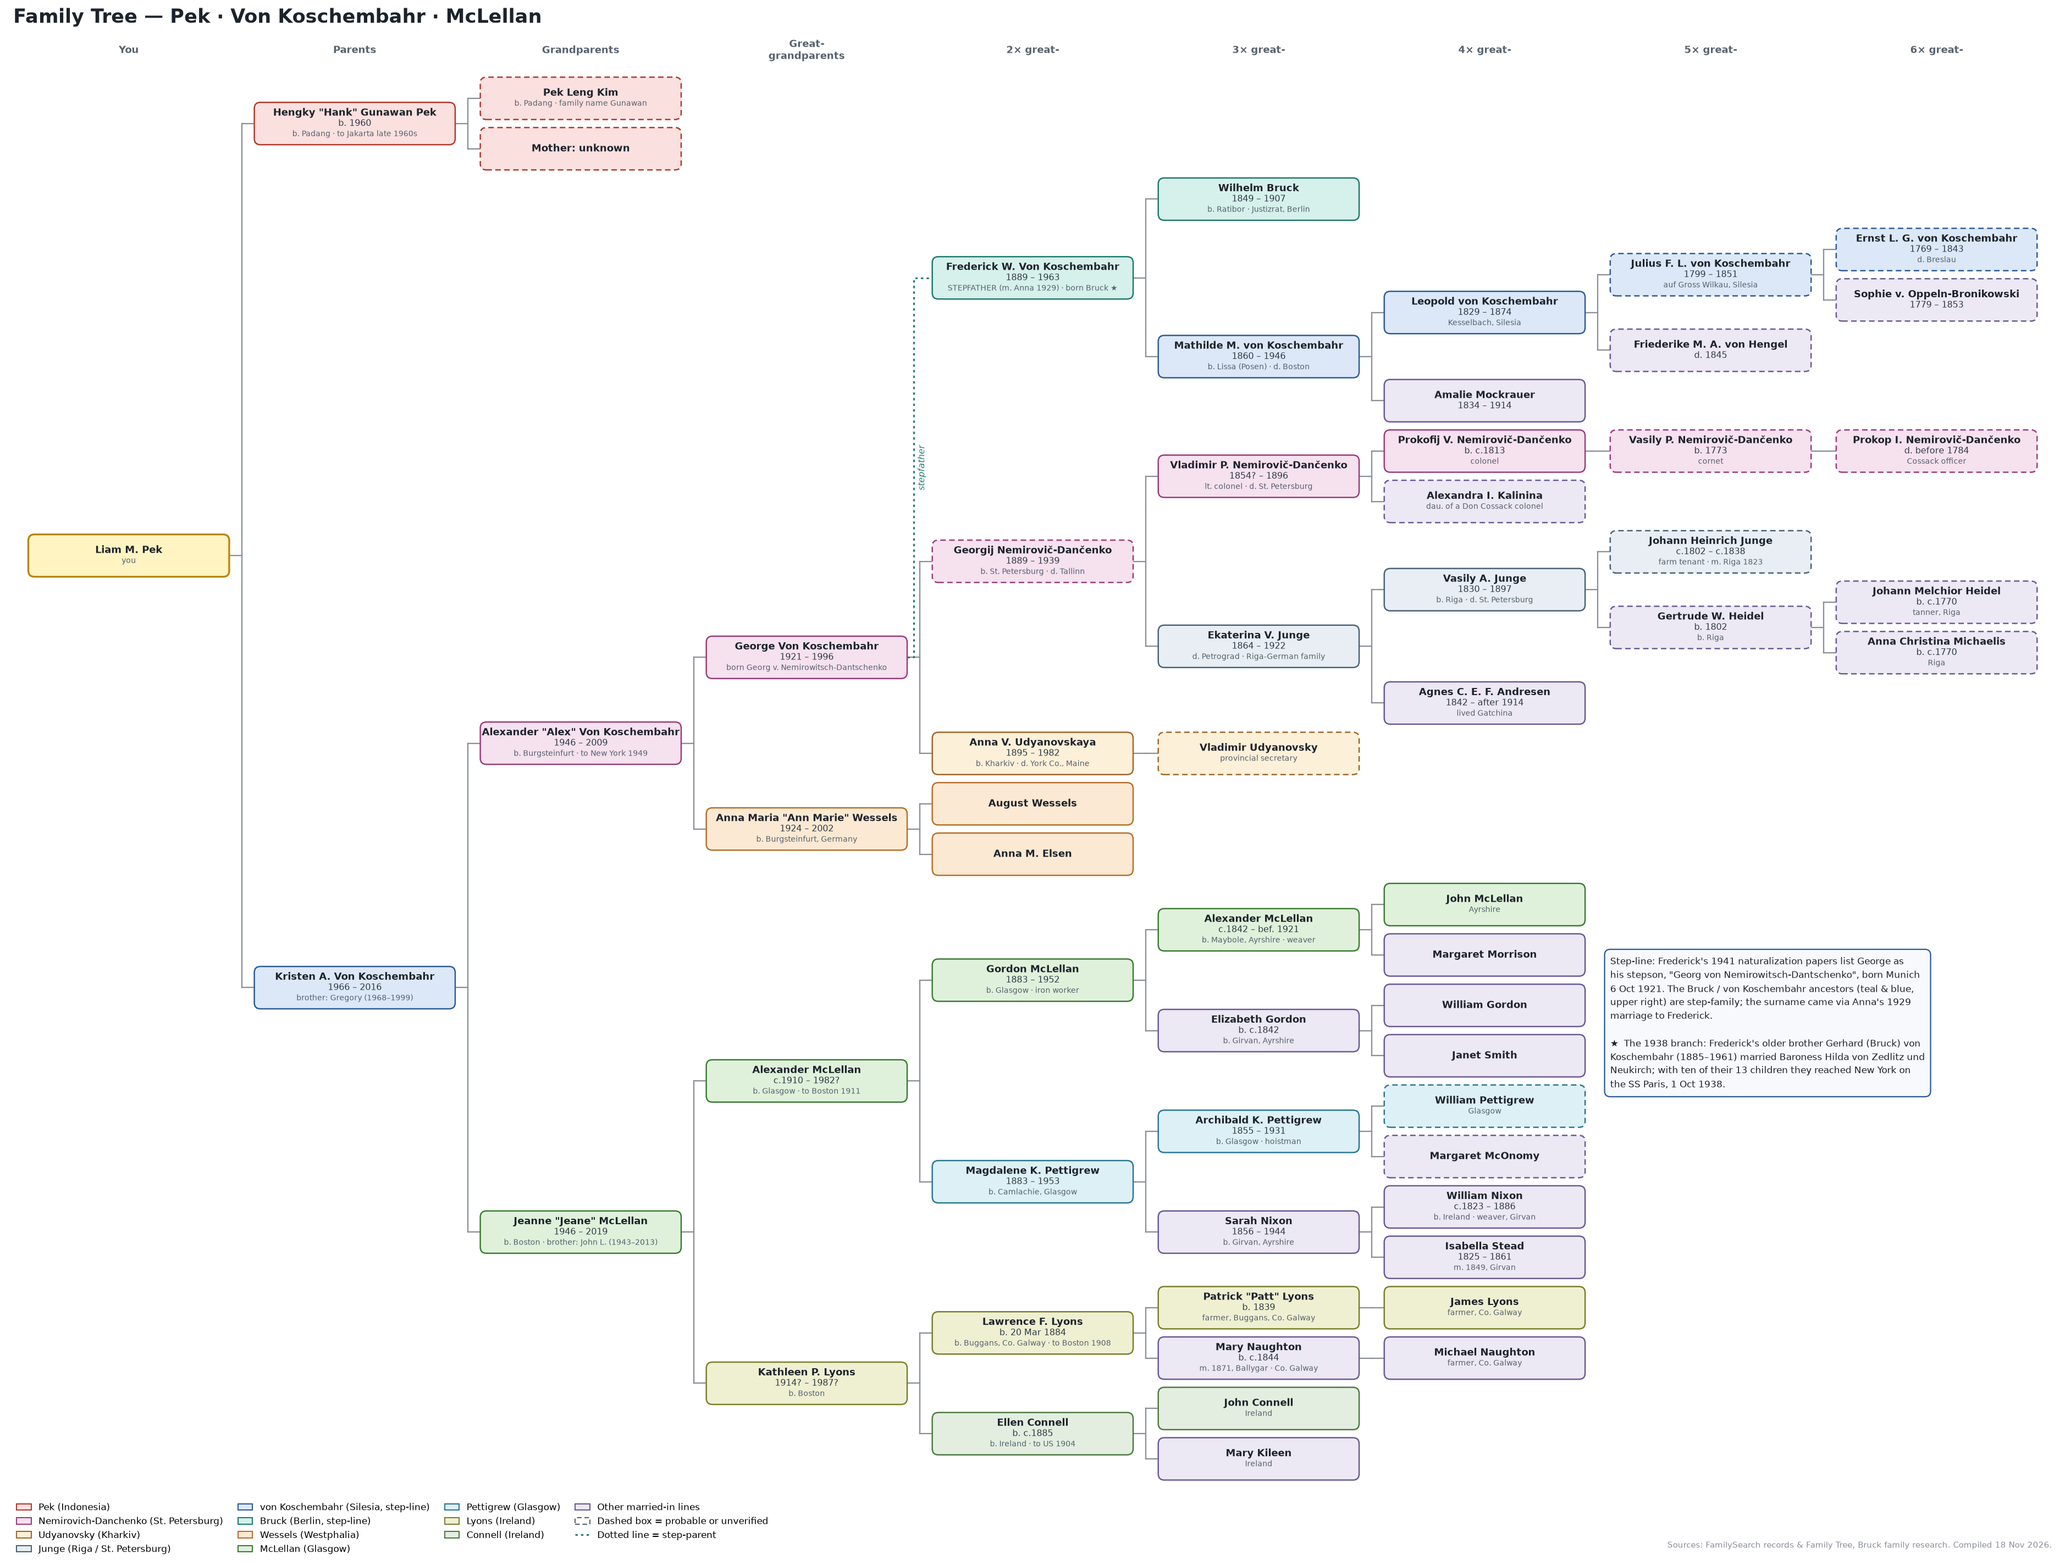
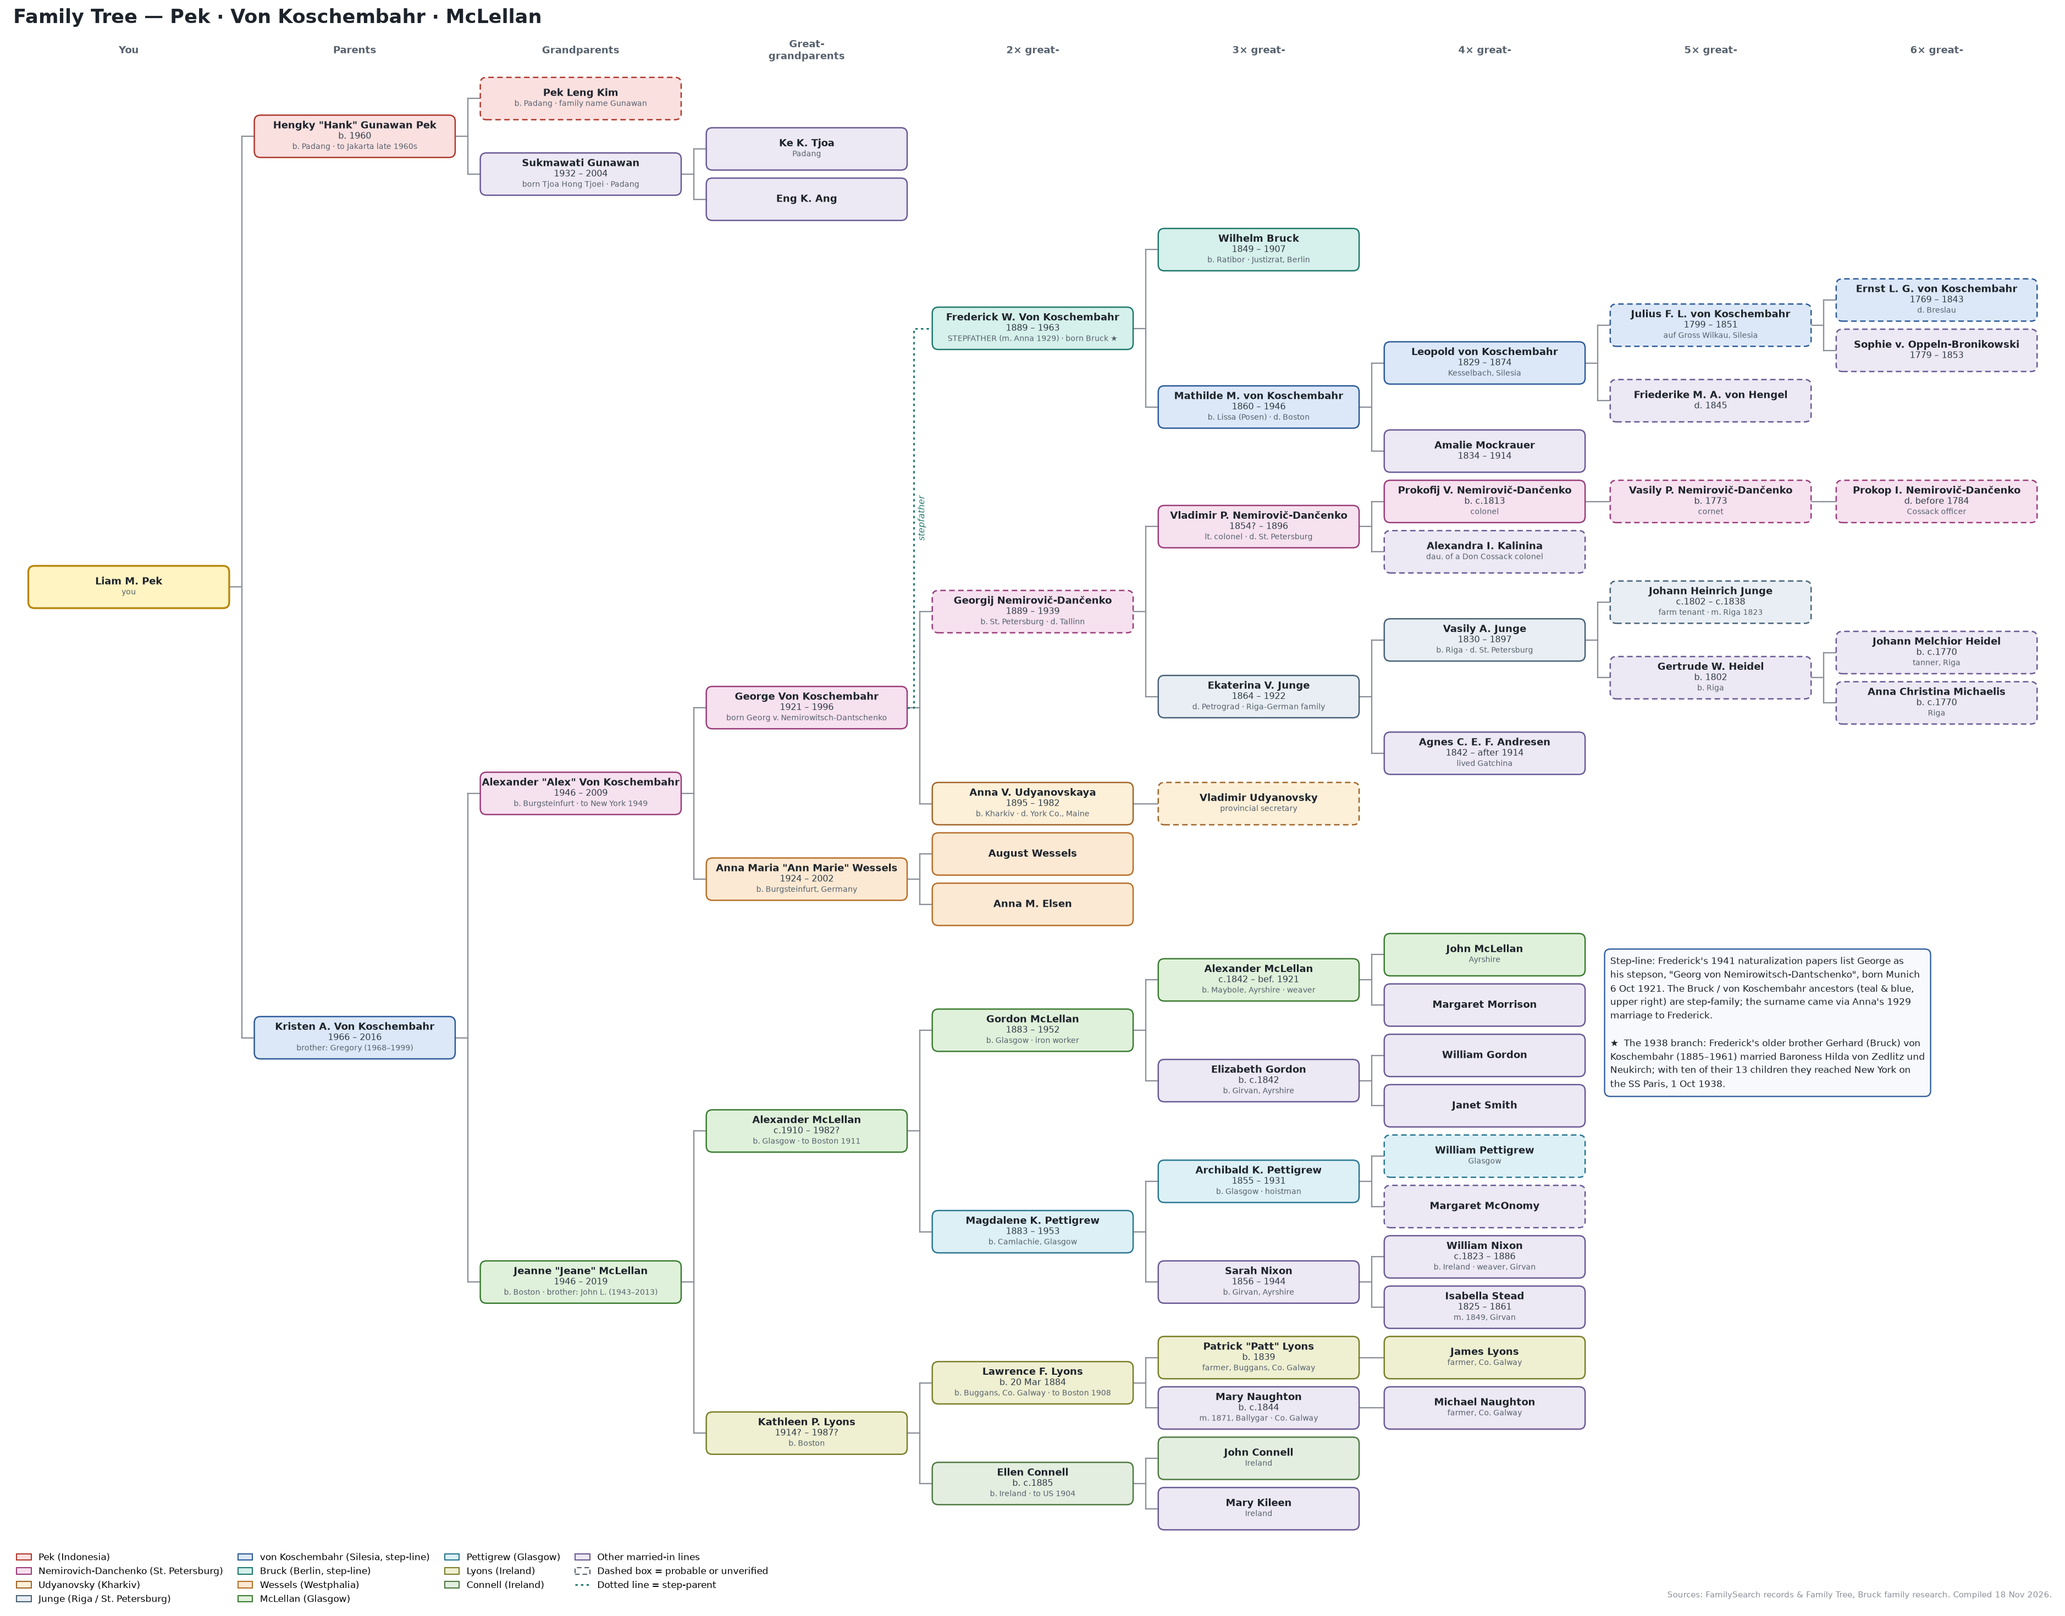
family history: Pek line — add Sukmawati Gunawan (Tjoa Hong Tjoei) and US records
- Dad's mother Sukmawati Gunawan, born Tjoa Hong Tjoei (Padang 1932 –
  Mass. 2004), with parents Ke K. Tjoa and Eng K. Ang from her NUMIDENT
- Iskandar Gunawan (b. 1930, Quincy) noted as possible US name of Pek Leng Kim
- Padang Chinese birth register 1927–1940 (FamilySearch film 1474366) as next lead
- Tree image and Pek Family Archive updated

diff --git a/vault/Research/family-archive/family-archive.html b/vault/Research/family-archive/family-archive.html
@@ -206,11 +206,14 @@ const PLACES = {
 /* status: record | probable | tree | family | living | unknown */
 const P = {
  liam:{n:"Liam M. Pek",line:"root",st:"living",gen:"You",bio:["The person this archive is built around. Liam's father's family is Chinese-Indonesian, from Padang in West Sumatra. His mother's family brings together Russian, Baltic-German, German, Scottish and Irish lines that met in and around Boston."]},
- hengky:{n:"Hengky \"Hank\" Gunawan Pek",line:"pek",st:"living",b:["1960","padang"],res:"Moved to Jakarta in the late 1960s",
+ hengky:{n:"Hengky \"Hank\" Gunawan Pek",alt:"Chinese name Pek Seng Ki",line:"pek",st:"living",b:["6 Mar 1960","padang"],res:"Moved to Jakarta in the late 1960s; later Massachusetts",
    bio:["Born in Padang, West Sumatra, into a Chinese-Indonesian family whose Hokkien surname is Pek (白, Bai in Mandarin). In the 1960s, when Chinese Indonesians were pressed to take Indonesian-sounding names, the family adopted the surname Gunawan. The family moved from Padang to Jakarta in the late 1960s.","He later married Kristen A. Von Koschembahr. Jeanne McLellan Bundtzen's 2019 obituary lists him as her son-in-law, \"Hank Hengky Gunawan Pek\"."]},
  lengkim:{n:"Pek Leng Kim",alt:"Gunawan",line:"pek",st:"family",b:["","padang"],
-   bio:["Hengky's father, known from family memory as Pek Leng Kim. Born in Padang; the family took the Indonesian surname Gunawan and moved to Jakarta in the late 1960s.","No record has been found yet. FamilySearch's indexed Padang civil registers (1912–1945) contain only four Pek entries, none for Leng Kim. His birth year would let the unindexed Padang registers be searched page by page."]},
- pekmom:{n:"Hengky's mother",line:"pek",st:"unknown",bio:["Name not yet known. Her Chinese surname would help identify the family in Padang records."]},
+   bio:["Hengky's father, known from family memory as Pek Leng Kim. Born in Padang; the family took the Indonesian surname Gunawan and moved to Jakarta in the late 1960s.","No record under the name Pek Leng Kim has been found. In the US he may be the Iskandar Gunawan, born 7 Feb 1930, whom public records place in Quincy, Massachusetts, from 2002 to 2009, at the same address as Sukmawati and Hengky Gunawan. No death record for Iskandar was found. This needs confirming with Hengky."]},
+ pekmom:{n:"Sukmawati Gunawan",alt:"born Tjoa Hong Tjoei",line:"other",st:"record",b:["8 Jan 1932","padang"],d:["18 Jul 2004","Norfolk County, Massachusetts"],res:"Quincy, Massachusetts",
+   bio:["Hengky's mother, born Tjoa Hong Tjoei on 8 Jan 1932 in Padang; the family confirms her Chinese name, which also appears in the Social Security claims index. Her Social Security record names her parents as Ke K. Tjoa and Eng K. Ang. Her birth should be in Padang's 1927–1940 Chinese birth register, which FamilySearch holds on restricted film 1474366.","She lived in Quincy, Massachusetts, where public records list her at the same address as Iskandar and Hengky Gunawan, and died in Norfolk County in July 2004. No obituary has been found."]},
+ tjoaF:{n:"Ke K. Tjoa",line:"other",st:"record",b:["","padang"],bio:["Sukmawati's father: named as a parent in her Social Security record, and the source of her family name Tjoa. Padang had a large Tjoa community; his full name should appear on her 1932 birth registration."]},
+ angM:{n:"Eng K. Ang",line:"other",st:"record",bio:["Named as a parent in Sukmawati Gunawan's Social Security record; probably her mother. The Ang family is recorded in Padang, but no link to them is established."]},
  kristen:{n:"Kristen A. Von Koschembahr",line:"kosch",st:"record",b:["7 Dec 1966",null],d:["16 Jul 2016",null],bur:"Saint Joseph Cemetery, West Roxbury, Boston",
    bio:["Liam's mother. Daughter of Alexander \"Alex\" Von Koschembahr and Jeanne McLellan, who married in Massachusetts in 1966 and divorced in 1977. Her younger brother Gregory (1968–1999) died at 31.","Public records place her in Allston, Boston, in 2000. She died in 2016 and is buried at Saint Joseph Cemetery in West Roxbury, alongside her father, brother and mother."]},
  alex:{n:"Alexander \"Alex\" Von Koschembahr",alt:"registered as Dantschenko in 1948",line:"nemir",st:"record",b:["23 Jun 1946","burg"],d:["24 Jun 2009","St Johns County, Florida"],bur:"Saint Joseph Cemetery, West Roxbury",
@@ -294,7 +297,11 @@ const P = {
 };
 
 const D = {
- fam_pek:{t:"Family information",r:"From Liam, November 2026",s:"Hengky's father was Pek Leng Kim; the family took the Indonesian surname Gunawan, came from Padang and moved to Jakarta in the late 1960s."},
+ fam_pek:{t:"Family information",r:"From Liam, November 2026",s:"Hengky's Chinese name is Pek Seng Ki; his mother's was Tjoa Hong Tjoei (Sukmawati Gunawan). His father was Pek Leng Kim; the family took the Indonesian surname Gunawan, came from Padang and moved to Jakarta in the late 1960s."},
+ numident_suk:{t:"Social Security record of Sukmawati Gunawan",r:"US Social Security NUMIDENT",u:FS("6KM3-29Q1"),s:"Born 8 Jan 1932, Padang, Indonesia; died 18 Jul 2004; parents Eng K. Ang and Ke K. Tjoa."},
+ ssdi_suk:{t:"Social Security Death Index, Sukmawati Gunawan",r:"SSDI",u:FS("J5F2-GYH"),s:"Died 18 Jul 2004, Norfolk County, Massachusetts."},
+ pubrec_hengky:{t:"US public records, Hengky Gunawan",r:"US Public Records 1970–2009",u:FS("KL2Y-ZW3"),s:"\"Hemgjy Gunawan\", born 6 Mar 1960, Franklin, Massachusetts, 2008."},
+ pubrec_isk:{t:"US public records, Iskandar Gunawan",r:"US Public Records 1970–2009",u:FS("KL2Y-Z7L"),s:"Born 7 Feb 1930; Quincy, Massachusetts, 2002–2009. Property and people-search sites list Iskandar, Sukmawati and Hengky Gunawan at the same Quincy address."},
  obit_jeanne:{t:"Obituary of Jeanne E. McLellan Bundtzen",r:"US Obituary Records 2014–2023 · 10 Apr 2019",u:FS("61JV-FZJV"),s:"Names her parents Alexander McLellan and Kathleen P. Lyons McLellan, her brother John, her children Kristen A. and Gregory Von Koschembahr, son-in-law Hank Hengky Gunawan Pek and grandson Liam M. Pek."},
  obit_greg:{t:"Obituary of Gregory Vonkoschembahr",r:"GenealogyBank · 14 Apr 1999",u:FS("QKWL-SF61"),s:"Names his parents Alexander Vonkoschembahr and Jeanne McLellan Bundtzen, stepfather John Bundtzen, and sister Kristen."},
  obit_bundtzen:{t:"Obituary of John E. Bundtzen",r:"Worcester Telegram & Gazette · 25 Nov 2003",u:FS("QKWL-QGK7"),s:"Names his wife Jeanne McLellan Bundtzen and her children Gregory and Kristen Vonkoschembahr."},
@@ -373,7 +380,9 @@ const L = [
  ["liam","hengky","bio","record",["obit_jeanne","fam_pek"]],
  ["liam","kristen","bio","record",["obit_jeanne"]],
  ["hengky","lengkim","bio","family",["fam_pek"]],
- ["hengky","pekmom","bio","unknown",[]],
+ ["hengky","pekmom","bio","record",["fam_pek","numident_suk","pubrec_hengky","pubrec_isk"]],
+ ["pekmom","tjoaF","bio","record",["numident_suk"]],
+ ["pekmom","angM","bio","record",["numident_suk"]],
  ["kristen","alex","bio","record",["obit_greg","ct_divorce"]],
  ["kristen","jeanne","bio","record",["obit_jeanne","obit_bundtzen","obit_greg"]],
  ["alex","george","bio","record",["census50_woburn","aro_cover","aro_pciro"]],
@@ -434,7 +443,7 @@ const L = [
 
 /* records about a person's own life (not a parent link) */
 const LIFE = {
- kristen:["fag_stjoseph"], alex:["batory","ssdi_alex","ct_divorce","fag_stjoseph"], george:["numident_george","nat_george","aro_interview","aro_pciro","fag_mtauburn"],
+ kristen:["fag_stjoseph"], pekmom:["numident_suk","ssdi_suk"], lengkim:["pubrec_isk"], hengky:["pubrec_hengky","fam_pek"], alex:["batory","ssdi_alex","ct_divorce","fag_stjoseph"], george:["numident_george","nat_george","aro_interview","aro_pciro","fag_mtauburn"],
  annamaria:["numident_am","nat_am","obit_am","batory","fag_mtauburn"], frederick:["decl_fred","numident_fred","census50_woburn","fag_mtauburn"],
  mathilde:["fag_mtauburn"], ernst:["burial_ernst"], georgij:["osmikon","ruwiki_g","rod_g","vgd"], annaU:["decl_fred","rod_anna","vgd","aro_arr48","me_death","fag_mtauburn"],
  vladimirP:["vgd","rod_vlad"], ekaterina:["rod_ek","vgd"], jeanne:["fs_jeanne","ct_marr77","numident_greg","fag_stjoseph"],

diff --git a/vault/Research/family-tree-render.py b/vault/Research/family-tree-render.py
@@ -12,7 +12,9 @@ P = {
     "hengky":    ('Hengky "Hank" Gunawan Pek', "b. 1960", "b. Padang · to Jakarta late 1960s", "pek", False),
     "kristen":   ("Kristen A. Von Koschembahr", "1966 – 2016", "brother: Gregory (1968–1999)", "kosch", False),
     "lengkim":   ("Pek Leng Kim", "", "b. Padang · family name Gunawan", "pek", True),
-    "pekmom":    ("Mother: unknown", "", "", "pek", True),
+    "pekmom":    ("Sukmawati Gunawan", "1932 – 2004", "born Tjoa Hong Tjoei · Padang", "other", False),
+    "tjoaF":     ("Ke K. Tjoa", "", "Padang", "other", False),
+    "angM":      ("Eng K. Ang", "", "", "other", False),
     "alex":      ('Alexander "Alex" Von Koschembahr', "1946 – 2009", "b. Burgsteinfurt · to New York 1949", "nemir", False),
     "jeanne":    ('Jeanne "Jeane" McLellan', "1946 – 2019", "b. Boston · brother: John L. (1943–2013)", "mcl", False),
     "george":    ("George Von Koschembahr", "1921 – 1996", "born Georg v. Nemirowitsch-Dantschenko", "nemir", False),
@@ -72,6 +74,7 @@ P = {
 PARENTS = {
     "liam": ["hengky", "kristen"],
     "hengky": ["lengkim", "pekmom"],
+    "pekmom": ["tjoaF", "angM"],
     "kristen": ["alex", "jeanne"],
     "alex": ["george", "annamaria"],
     "jeanne": ["alexmcl", "kathleen"],

diff --git a/vault/Research/family-tree.md b/vault/Research/family-tree.md
@@ -21,8 +21,10 @@ Research started 2026-11-18 using FamilySearch. The importable version is [[fami
 ```
 Liam M. Pek
 ├── Father: Hengky "Hank" Gunawan Pek (b. 1960, Padang, West Sumatra); the family moved to Jakarta in the late 1960s
-│   └── Father: Pek Leng Kim (born Padang; family took the Indonesian surname Gunawan)
-│       Mother: unknown
+│   ├── Father: Pek Leng Kim (born Padang; family took the Indonesian surname Gunawan); possibly the Iskandar Gunawan (b. 7 Feb 1930) in Quincy, MA public records
+│   └── Mother: Sukmawati Gunawan, born Tjoa Hong Tjoei (8 Jan 1932, Padang – 18 Jul 2004, Norfolk Co., MA); Chinese name confirmed by Liam
+│       ├── Father: Ke K. Tjoa (named in her Social Security record)
+│       └── Mother: Eng K. Ang (named in her Social Security record)
 └── Mother: Kristen A. Von Koschembahr (7 Dec 1966 – 16 Jul 2016)
     ├── Father: Alexander "Alex" Von Koschembahr (23 Jun 1946, Germany – 24 Jun 2009, St. Johns Co., FL)
     │   ├── Father: George Von Koschembahr, born Georg von Nemirowitsch-Dantschenko (6 Oct 1921, Munich – 15 Sep 1996)
@@ -241,6 +243,30 @@ The von Koschembahr line itself is old Silesian nobility, documented from about 
    - whether the family has a written genealogy book or ancestral tablet
 
    Pek (Hokkien *Pe̍h*) is the surname 白 (Bai in Mandarin), "marga Bái [Peq]" ([budaya-tionghoa.net](https://www.budaya-tionghoa.net/?p=3790)). FamilySearch's *Indonesia, Civil Registration, 1806–1997* collection indexes about 1,150 Pek records, mostly Chinese-Indonesian families in East Java (Surabaya, Pasuruan, Probolinggo, Banyuwangi), up to about 1956. None matches "Leng Kim Pek" so far. With a hometown and his grandparents' names, his great-grandparents could be searchable there. Indexes write the names given name first, e.g. "Kim Poo Pek".
+
+   **US records (found 2026-11-18):** Dad's Chinese name is **Pek Seng Ki**.
+   - US public records list a "Hemgjy" (Hengky) Gunawan, born **6 Mar 1960**, in Franklin, MA in 2008.
+   - **Sukmawati Gunawan**, born **8 Jan 1932 in Padang**, died 18 Jul 2004 in Norfolk Co., MA.
+     - Her Social Security record (NUMIDENT, ark 6KM3-29Q1) names her parents as **Eng K. Ang** and **Ke K. Tjoa**.
+     - A claims-index summary gives her name as "Hong Tjoei Tjoa", which would make her née Tjoa.
+   - An **Iskandar Gunawan**, born **7 Feb 1930**, lived in Quincy, MA in 2002–09.
+   - Property and people-search sites list Sukmawati, Iskandar and Hengky Gunawan at the same address: 45 Bradford St, Quincy.
+   - No obituary or death record was found for Iskandar.
+   - **Confirmed by Liam:** Sukmawati's Chinese name was Tjoa Hong Tjoei, so she is Dad's mother.
+   - Still to confirm: whether Iskandar Gunawan was Pek Leng Kim.
+   - **Tjoa–Ang family in Padang:**
+     - No indexed Padang record matches "Ke K. Tjoa" and "Eng K. Ang". Other Tjoa–Ang couples are indexed, but none fits:
+       - Koan Seng Tjoa and Loan Giok Nio Ang (daughter b. c.1914).
+       - Goan Seng Tjoa and Kwie Giok Nio Ang (daughter b. 1 May 1919).
+     - FamilySearch's name index for Padang stops in the 1920s.
+     - **Her birth register exists:** "Kelahiran Cina 1927–1940" (Chinese births, Kantor Catatan Sipil Padang), FamilySearch film 1474366 / DGS 9161345, 3,079 images.
+       - The images are restricted to FamilySearch Centers and affiliate libraries, and the volume isn't name-indexed.
+       - At a Center, browse to January 1932 for Tjoa Hong Tjoei. The entry should name her father in full and maybe her mother.
+       - The same catalogue has "Kematian Cina 1922–1945" (Chinese deaths; film 1474368), which may show what happened to her parents.
+   - **Immigration papers:** FamilySearch's US immigration and naturalization indexes stop before the family's arrival. The files would be **USCIS A-files**:
+     - Dad can request his own file through a USCIS FOIA request (free).
+     - Sukmawati's file can be requested through FOIA with proof of death.
+     - A-files usually include the Indonesian passport, birth details and parents' names.
 
    **Update:** the family is from **Padang**, West Sumatra, and moved to Jakarta in the late 1960s. The Indonesian surname adopted was **Gunawan**.
    - FamilySearch has only four indexed Pek records for Padang and Padangpanjang (1919–1944). One is a Pek family in Padang in 1919: Tjioe Pek and Kim Kie Nio Ang, with a daughter born 20 Oct 1919. They aren't linked to us yet.
